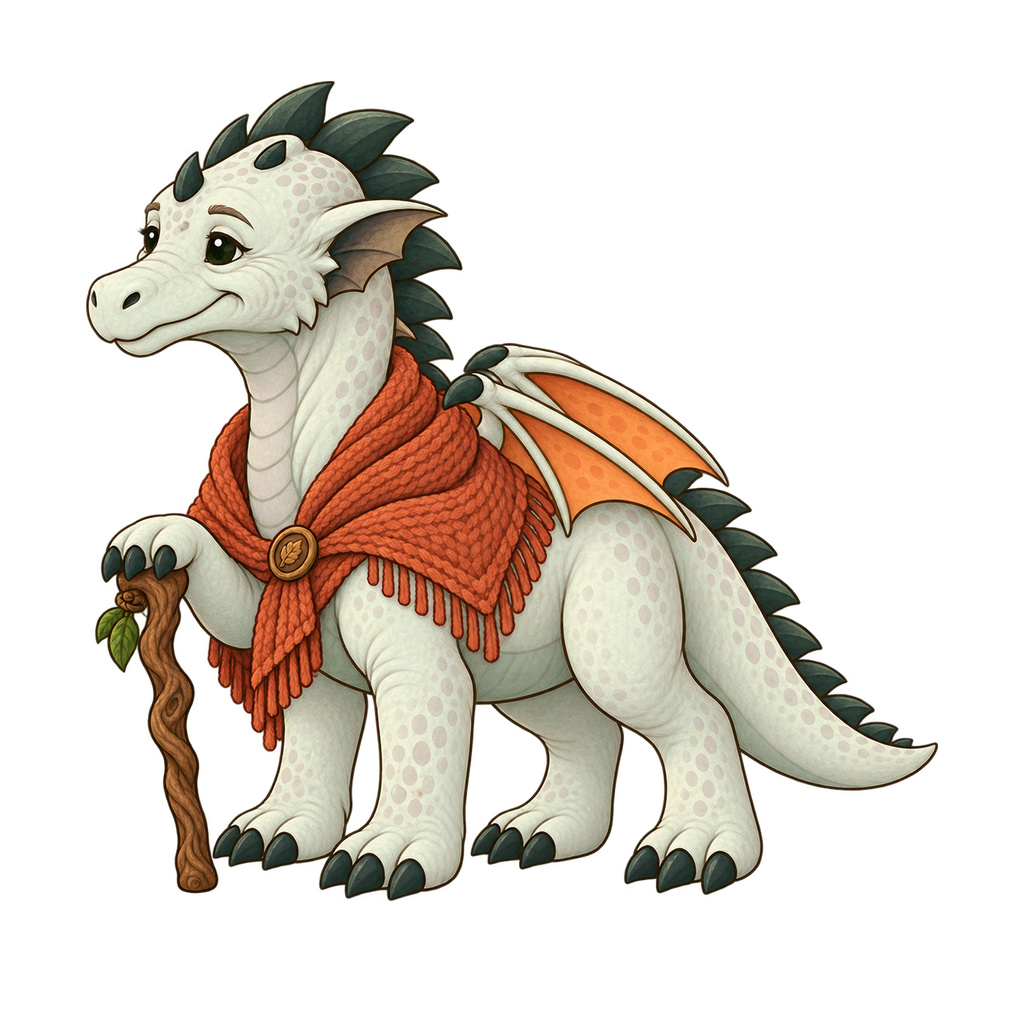
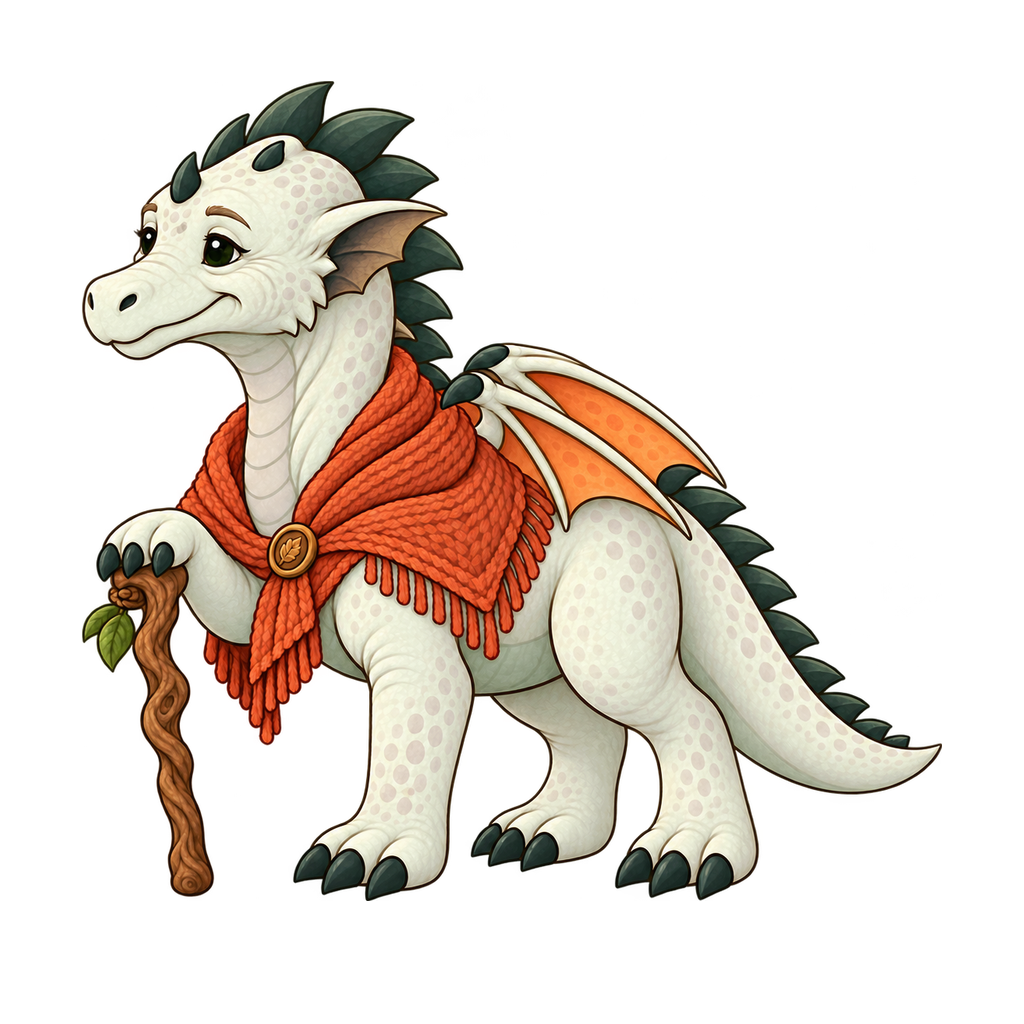
Correct Ashby to four legs and refresh review captures

Changed region(s): [[0.0625, 0.0938, 0.9375, 0.875], [0.3125, 0.0938, 0.4062, 0.125], [0.2812, 0.0625, 0.3125, 0.0938]]

diff --git a/docs/campaigns/gemfall-illustrations.md b/docs/campaigns/gemfall-illustrations.md
@@ -134,6 +134,14 @@ Brisk tender expression, older and bigger rather than baby dragon in a shawl. En
 single cutout inside a 1024x1024 transparent canvas with clear margins, lowest
 feet/stick row at y900, no shadow or floor or lettering. Keep distinct species anatomy.
 
+Anatomy correction after pilot review, using the packaged Ashby as the edit reference:
+
+Edit this existing Great-Gran Ashby dragon illustration to fix an anatomical error: she currently has FIVE legs (four planted feet plus an extra raised foreleg holding the stick). Remove the extra planted FRONT leg on the far side, the leftmost planted foot directly behind the walking stick. Keep the raised near foreleg resting on the stick, ONE planted front leg below the shoulder, and TWO planted hind legs below the hips. EXACTLY FOUR limbs total: one raised foreleg, one planted foreleg, two planted hind legs. No fifth limb, no extra paw. Fill the removed limb area with transparent background and natural torso contour. Preserve her face, elder proportions, shawl, walking stick, tail, wings, scales, left-facing pose, colors, and painted style. One complete dragon on a true transparent background, no ground shadow, no text. Square canvas with clear margins. This is a targeted anatomy correction, not a redesign.
+
+The first pilot accidentally showed four planted legs plus the raised foreleg. The
+corrected production image has exactly four legs: one raised foreleg, one planted
+foreleg, and two planted hind legs. The TV and phone after-captures were refreshed.
+
 ### Pellam generation prompt
 
 NEW single character Pellam the Skywarden bridge clerk. Reference image shows mixed

diff --git a/docs/review/story-cast-pilot/README.md b/docs/review/story-cast-pilot/README.md
@@ -1,6 +1,8 @@
 # Story cast pilot review
 
 The pilot adds Coralie Fenn, Great-Gran Ashby, and Pellam. All use medium scale.
+Ashby was corrected after review to exactly four legs (one raised foreleg,
+one planted foreleg, two hind legs); her after-captures show the corrected figure.
 Art verification: **734 passed**, no failures. Content validation: **55 passed**.
 Each figure is 1024×1024 RGBA with real alpha, minimum margin 81px, feet at y=900.
 Chapter scope comparison: exactly 42 cast figure replacements; all other fields identical.
